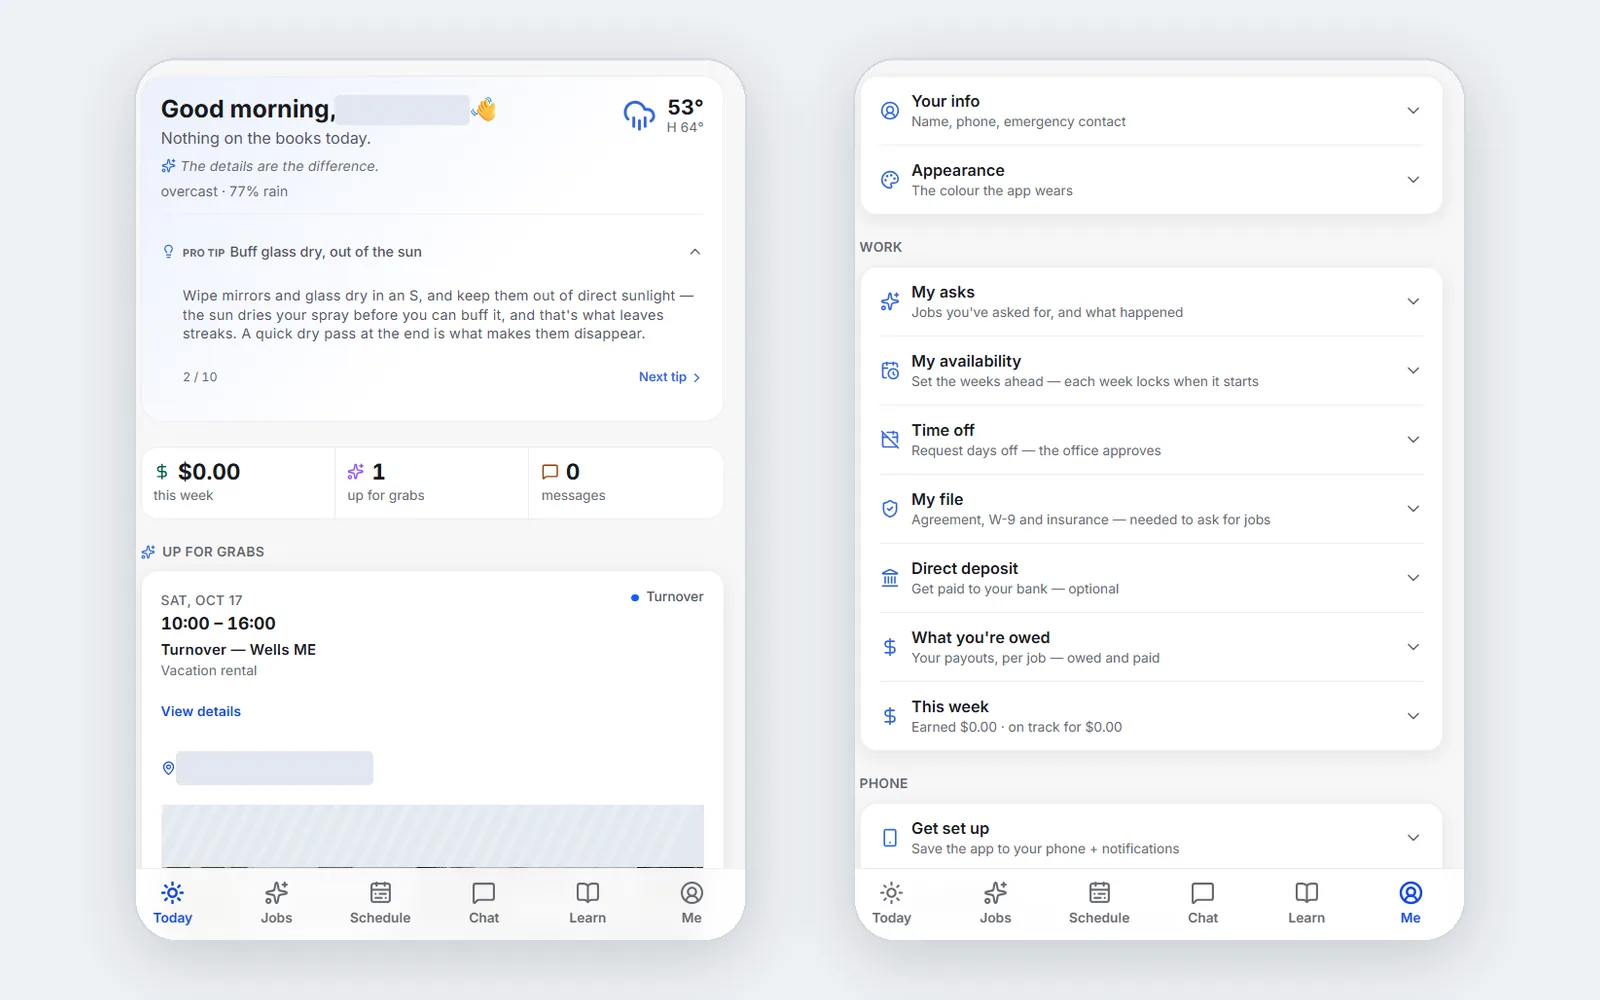
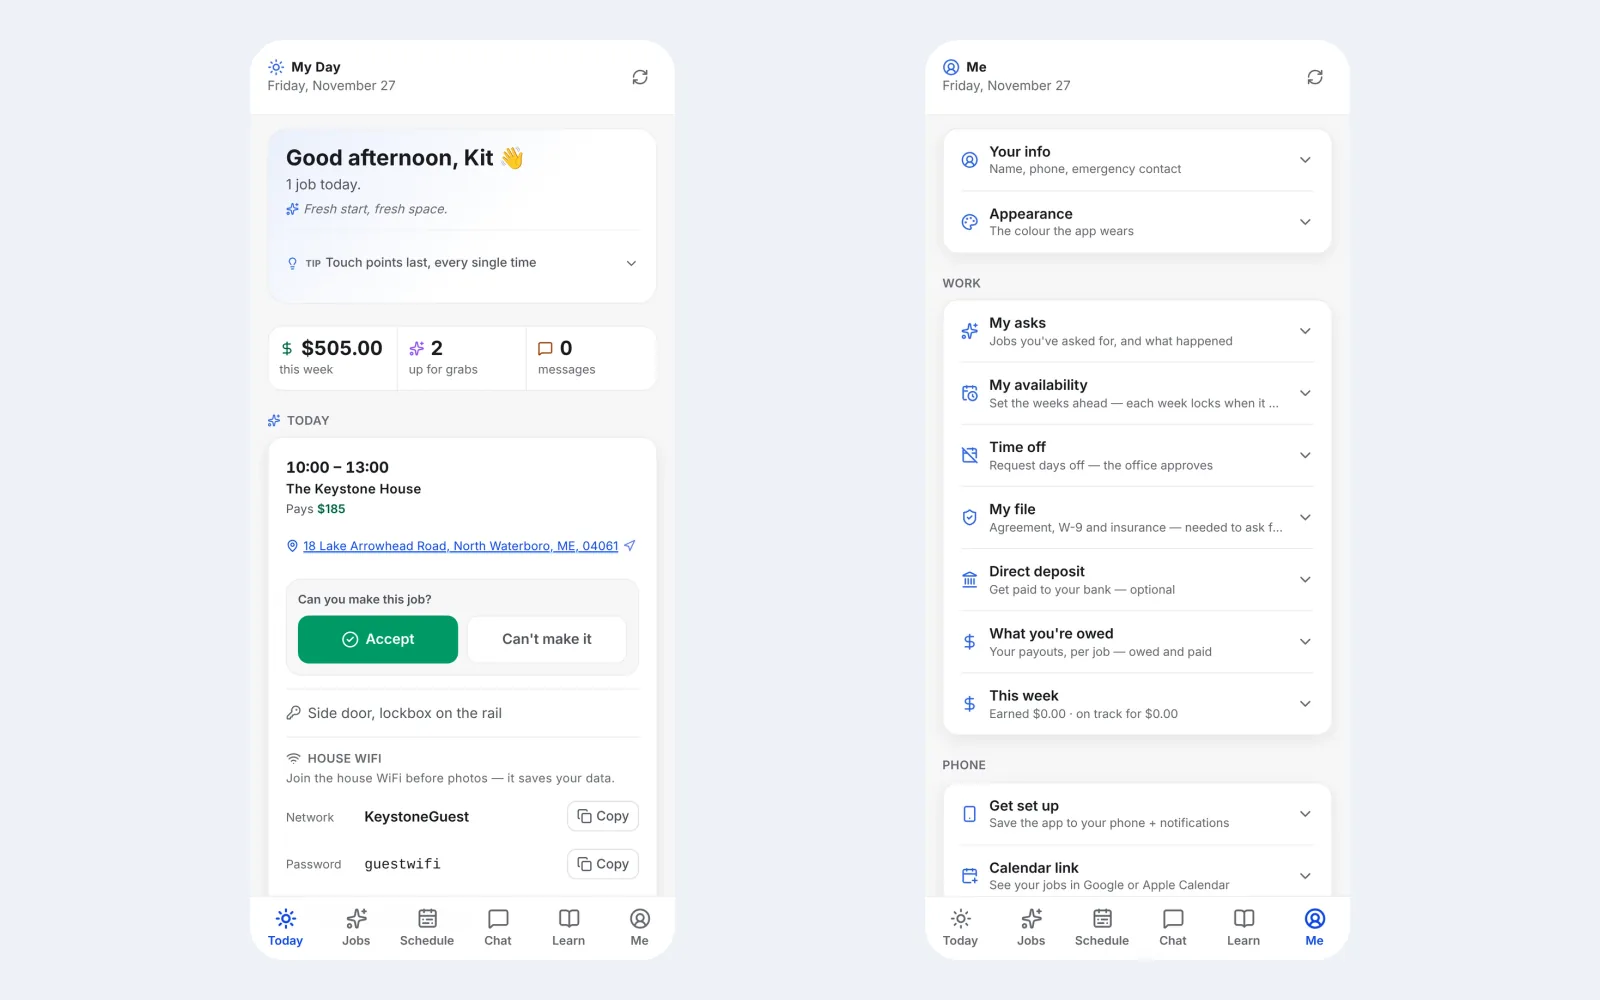
Real BrightBase screenshots: no placeholder data, no grey redaction boxes
Meg asked for the BrightBase demos to show real images and addresses
rather than blurred ones. Looking at why they were blurred changed the
job.

**The grey rectangles were not hiding her house, they were hiding real
production data.** The crew screens had been captured against live data
and painted over afterwards: a grey box on the address, another on the
map, another on the pay. Un-blurring those would have published real
customers' addresses and what they pay. The office screens had the
opposite problem and were fake in a way that announced itself: "52 Demo
Lane", "22 Placeholder Way", "58 Sample Street", "Seaglass Cottage".

So neither half could be fixed by editing an image. The fix was a demo
database worth photographing, and there was no seeder for one -- the
note in lib/brightbase.ts said "seed a local copy", describing a
database that lived on one laptop. `backend/scripts/seed_demo.py` in
Bright-Space (branch claude/demo-seeder) is that seeder, and these 18
captures are its first output.

Every screen here is the real app running against it. Nothing is
redacted, because nothing in frame belongs to a real person: the crew
card shows the address, the lockbox note, the WiFi and "Pays $185"
because the property is invented. The addresses are invented streets in
real Southern Maine towns, which is the deliberate middle ground -- a
real street name with a plausible number is somebody's actual house, and
"Demo Lane" is nobody's.
[…]

diff --git a/lib/brightbase.ts b/lib/brightbase.ts
@@ -10,10 +10,27 @@
       as in progress. Move a line up into a role list when it ships.
     · Screens are real captures of the app running on demo data: a
       fictional company (Harbor Light Cleaning) with made-up customers, and
-      the page says so under each one. Retake them by seeding a local copy
-      and capturing at 1440x900 (office) and 390x844 (crew, customer).
-      Never put a capture with a real customer's name, address, code or
-      phone number in /public/shots.
+      the page says so under each one. Never put a capture with a real
+      customer's name, address, code or phone number in /public/shots.
+
+      **Retake them with `backend/scripts/seed_demo.py`** in the
+      Bright-Space repo, then capture at 1440x900 (office) and 390x844
+      (crew, customer). That script did not exist until Nov 27 2026, and
+      its absence is why this set rotted the way it did: "seed a local
+      copy" described a database that lived on one laptop, so every
+      refresh was done by hand, and the screens that came from real data
+      were painted over with grey rectangles afterwards. Those rectangles
+      are what a visitor saw, and they read as censored rather than real.
+
+      Two things the seeder fixed that are easy to undo. The office data
+      used to be named like placeholder data ("52 Demo Lane", "22
+      Placeholder Way", "58 Sample Street"), which announces itself as a
+      demo; the invented addresses are now plausible Southern Maine ones
+      on invented streets, because a real street name with a plausible
+      number is somebody's actual house. And nothing is redacted any
+      more, because nothing in the frame belongs to a real person: that
+      is what makes the pay, the addresses and the lockbox notes safe to
+      show, not a decision to be braver about it.
 */
 
 export type Shot = { src: string; alt: string; demo?: boolean; phone?: boolean };

diff --git a/lib/content.ts b/lib/content.ts
@@ -741,7 +741,7 @@ export const caseStudies: CaseStudy[] = [
         body: "A phone workspace for the crew, separate from the office: today's work, cleaning tips, availability, time off, paperwork and what each person is owed.",
         shot: {
           src: "/shots/brightbase-crew-tools.webp",
-          alt: "The crew's Today screen with a cleaning tip, and the Me screen with availability, time off, paperwork and payouts. Names are blurred.",
+          alt: "The crew's Today screen with the day's turnover, pay and access notes, and the Me screen with availability, time off, paperwork and payouts.",
         },
       },
       {
@@ -749,7 +749,7 @@ export const caseStudies: CaseStudy[] = [
         body: "Vacation rental bookings automatically appear on the cleaning schedule, keeping turnover dates and assignments in one place.",
         shot: {
           src: "/shots/brightbase-crew-schedule.webp",
-          alt: "The crew's phone view: an open turnover to request, and the month schedule. Addresses and pay are blurred.",
+          alt: "The crew's phone view: two open turnovers to request with their addresses and pay, and the month schedule.",
         },
       },
     ],
